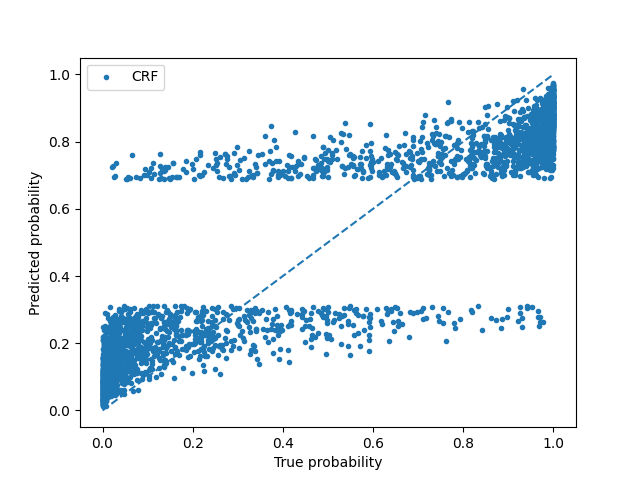
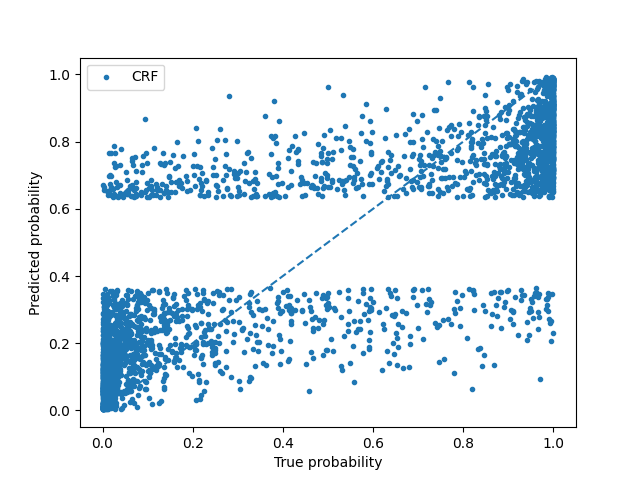
mean and cove can be set from function input

diff --git a/Data/data_provider.py b/Data/data_provider.py
@@ -206,19 +206,19 @@ def load_arff_2(data_name):
 
 from scipy.stats import multivariate_normal
 
-def make_classification_gaussian_with_true_prob(n_samples, n_features, seed=0):
+def make_classification_gaussian_with_true_prob(n_samples, n_features, class1_mean_min=0, class1_mean_max=1, class1_cov_min=1, class1_cov_max=2, class2_mean_min=0, class2_mean_max=1, class2_cov_min=1, class2_cov_max=2, seed=0):
 	n_samples = int(n_samples / 2)
 	# Synthetic data with n_features dimentions and n_classes classes
 
 	np.random.seed(seed)
 
-	mean1 = np.random.uniform(0,1,n_features) #[0, 2, 3, -1, 9]
+	mean1 = np.random.uniform(class1_mean_min, class1_mean_max, n_features) #[0, 2, 3, -1, 9]
 	cov1 = np.zeros((n_features,n_features))
-	np.fill_diagonal(cov1, np.random.uniform(1,2,n_features))
+	np.fill_diagonal(cov1, np.random.uniform(class1_cov_min,class1_cov_max,n_features))
 
-	mean2 = np.random.uniform(0,1,n_features) # [-1, 3, 0, 2, 3]
+	mean2 = np.random.uniform(class2_mean_min, class2_mean_max,n_features) # [-1, 3, 0, 2, 3]
 	cov2 = np.zeros((n_features,n_features))
-	np.fill_diagonal(cov2, np.random.uniform(1,2,n_features))
+	np.fill_diagonal(cov2, np.random.uniform(class2_cov_min,class2_cov_max,n_features))
 
 	x1 = np.random.multivariate_normal(mean1, cov1, n_samples)
 	x2 = np.random.multivariate_normal(mean2, cov2, n_samples)

diff --git a/Synthetic_calib.py b/Synthetic_calib.py
@@ -23,7 +23,7 @@ from sklearn.metrics import accuracy_score
 from sklearn.metrics import roc_curve, auc
 
 runs = 1
-n_estimators=100
+n_estimators=10
 
 plot_bins = 10
 test_size = 0.3
@@ -35,7 +35,6 @@ plot = True
 
 results_dict = {}
 
-seed = 0
 samples = 10000
 features = 40
 calib_methods = ["RF", "Platt" , "ISO", "Rank", "CRF"]
@@ -165,8 +164,8 @@ for metric in metrics:
         df_rank = df.rank(axis=1, ascending = False)
 
     mean_rank = df_rank.mean()
-    df.loc["Mean"] = mean_res
+    # df.loc["Mean"] = mean_res
     df.loc["Rank"] = mean_rank
-    df.to_csv(f"./results/Synthetic/sDataCalib_{metric}.csv",index=False)
+    df.to_csv(f"./results/Synthetic/{data}_DataCalib_{metric}.csv",index=False)
     print("---------------------------------", metric)
     print(df)

diff --git a/test.py b/test.py
@@ -4,7 +4,7 @@ import matplotlib.pyplot as plt
 
 
 samples = 10000
-features = 40
+features = 20
 
 
 X, y, tp = dp.make_classification_gaussian_with_true_prob(samples, features)
